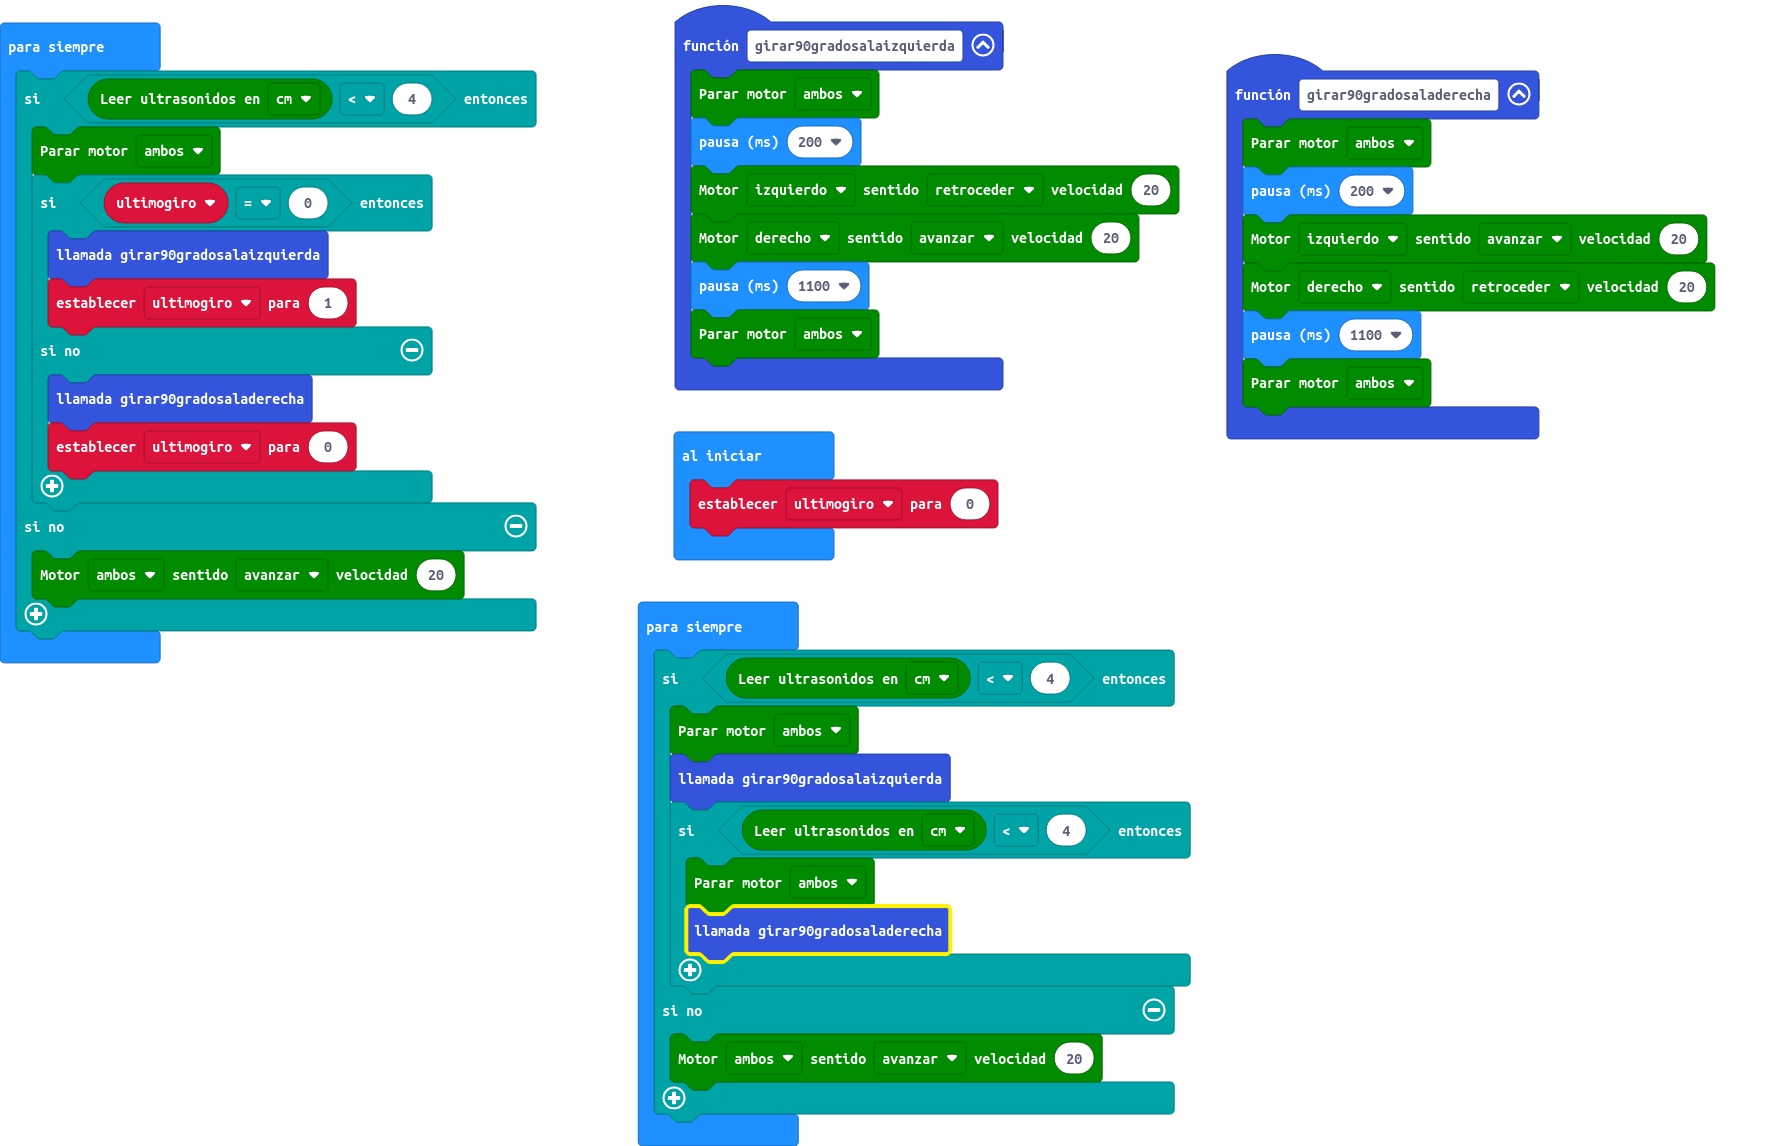
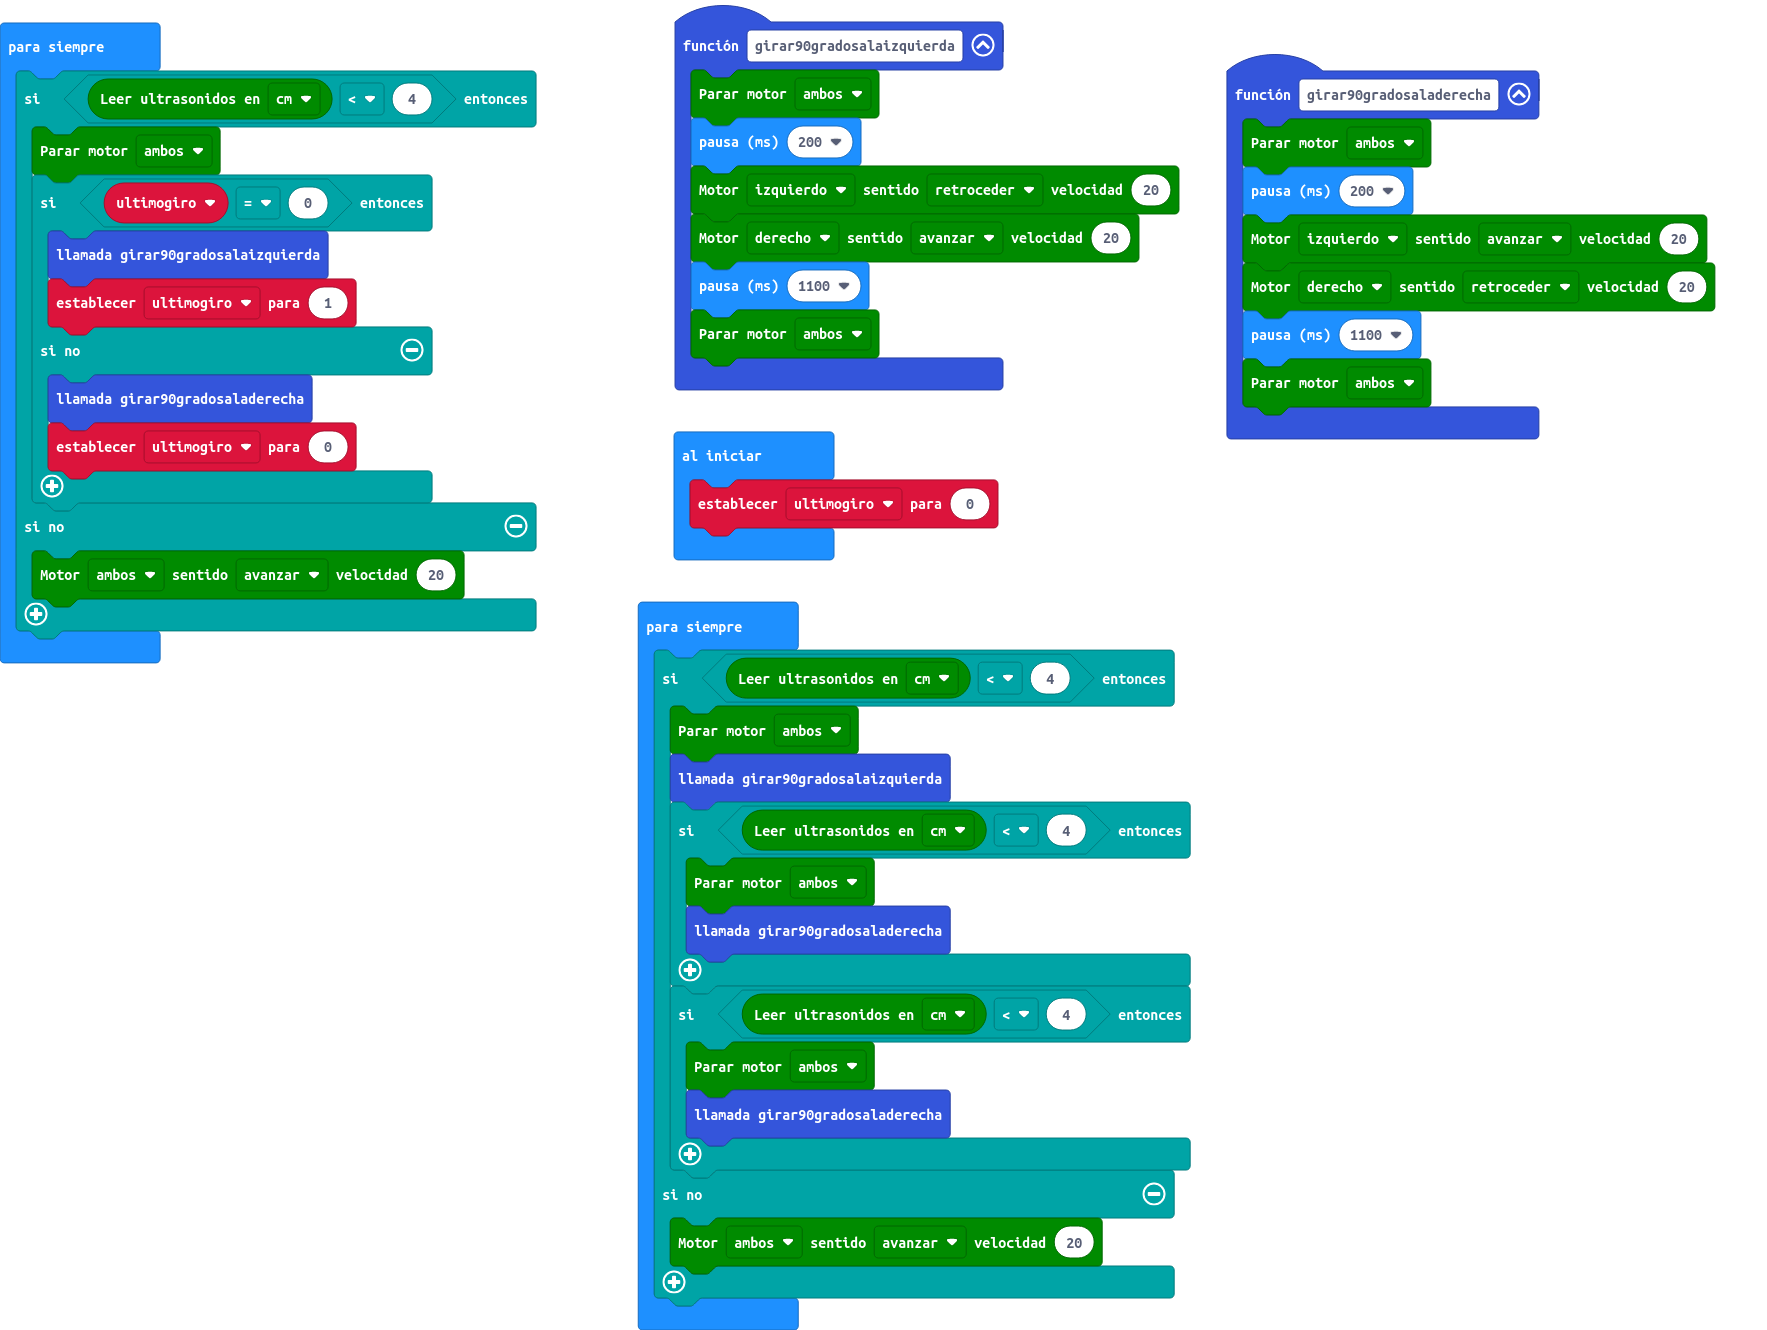
nuevo

Changed region(s): [[0.3424, 0.0, 0.996, 0.9773], [0.0, 0.0, 0.3113, 0.5803]]

diff --git a/main.ts b/main.ts
@@ -37,6 +37,10 @@ basic.forever(function () {
             maqueen.motorStop(maqueen.Motors.All)
             girar90gradosaladerecha()
         }
+        if (maqueen.Ultrasonic(PingUnit.Centimeters) < 4) {
+            maqueen.motorStop(maqueen.Motors.All)
+            girar90gradosaladerecha()
+        }
     } else {
         maqueen.motorRun(maqueen.Motors.All, maqueen.Dir.CW, 20)
     }
